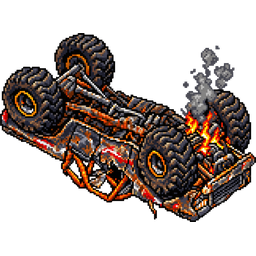
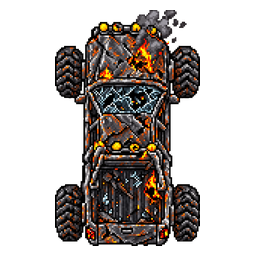
Race art: top-down wreck swapped onto the dead truck's tilted stack; drop the tilted truck sheets

diff --git a/src/client/scenes/RaceScene.ts b/src/client/scenes/RaceScene.ts
@@ -71,8 +71,6 @@ export class RaceScene extends Phaser.Scene {
   sprites: Phaser.GameObjects.Image[] = [];
   sides: Phaser.GameObjects.Image[][] = [];
   shields: Phaser.GameObjects.Image[] = [];
-  /** Burnt wreck shown where a destroyed truck died until it respawns. */
-  wrecks: Phaser.GameObjects.Image[] = [];
   boxes: Phaser.GameObjects.Sprite[] = [];
   missiles = new Map<number, Phaser.GameObjects.Image>();
   mines = new Map<number, Phaser.GameObjects.Image>();
@@ -150,7 +148,6 @@ export class RaceScene extends Phaser.Scene {
       this.sides.push(sides); this.sprites.push(body);
       return this.add.container(t.x, t.y, [...sides, body]).setScale(1, TILT).setDepth(10);
     });
-    this.wrecks = this.textures.exists('wreck') ? this.trucks.map(() => this.add.image(0, 0, 'wreck').setScale(TRUCK_SCALE * 1.2).setDepth(10).setVisible(false)) : [];
     this.shields = this.trucks.map(() => this.add.image(0, 0, 'projectiles', FRAMES.projectiles.shield).setScale(SPRITE_SCALE * 2.2).setAlpha(0.55).setDepth(11).setVisible(false));
     this.boxes = this.track.items.map((p) => this.add.sprite(p.x, p.y, 'itembox', 0).setScale(SPRITE_SCALE).setDepth(4).play('box-pulse'));
     this.marks = this.add.graphics().setDepth(12);
@@ -661,11 +658,10 @@ export class RaceScene extends Phaser.Scene {
       this.shadows[i].setPosition(p.x + (air ? 8 : 3), p.y + (air ? 14 : 5)).setVisible(!t.respawnAtTick).setDepth(t.onBridge ? 14 : 9);
       (this.shadows[i].list[0] as Phaser.GameObjects.Image).setRotation(rotation);
       for (const layer of [...this.sides[i], this.sprites[i]]) layer.setRotation(rotation);
-      this.trucks[i].setPosition(p.x, p.y - lift).setScale(grow, grow * TILT).setVisible(!(t.respawnAtTick && this.wrecks[i]) && !(state.tick < t.invulnerableUntilTick && state.tick % 6 < 3)).setDepth(t.onBridge ? 15 : 10);
-      this.wrecks[i]?.setPosition(p.x, p.y).setVisible(!!t.respawnAtTick).setDepth(t.onBridge ? 15 : 10);
+      this.trucks[i].setPosition(p.x, p.y - lift).setScale(grow, grow * TILT).setVisible(!(state.tick < t.invulnerableUntilTick && state.tick % 6 < 3)).setDepth(t.onBridge ? 15 : 10);
       this.shields[i].setPosition(p.x, p.y).setVisible(!t.respawnAtTick && state.tick < t.shieldUntilTick);
-            // A wrecked truck stays where it died as a charred hulk until it respawns at the last checkpoint.
-      this.sprites[i].setTint(t.respawnAtTick ? 0x3a302a : state.tick < t.stunUntilTick ? 0x8080ff : 0xffffff);
+      // A wrecked truck stays where it died as a burnt hulk, on the same tilted stack, until it respawns at the last checkpoint.
+      this.sprites[i].setTexture(t.respawnAtTick ? 'wreck' : `truck-${TRUCK_COLORS[i]}`).setTint(state.tick < t.stunUntilTick ? 0x8080ff : 0xffffff);
       if (t.lockedUntilTick > state.tick && !t.respawnAtTick) this.drawLock(p.x, p.y);
     });
     const prevMissiles = new Map(this.runner.previous.missiles.map((m) => [m.id, m]));

diff --git a/scripts/build-assets.py b/scripts/build-assets.py
@@ -53,14 +53,18 @@ def bands(mask, axis):
 
 # Trucks: one strict top-down sprite, nose up (assets/raw/trucks-rotate/README.md). The game rotates it to any
 # heading, so turning is continuous instead of snapping between drawn directions.
-top = Image.open(RAW / 'trucks-rotate' / 'cyan-topdown.png').convert('RGBA')
-top.putalpha(top.getchannel('A').point(lambda v: 255 if v >= 160 else 0))  # cut the soft glow
-top = top.crop(top.getbbox())
-scale = TRUCK_CELL * 0.92 / max(top.size)
-top = top.resize((round(top.width * scale), round(top.height * scale)), Image.LANCZOS)
-cyan = Image.new('RGBA', (TRUCK_CELL, TRUCK_CELL), (0, 0, 0, 0))
-cyan.alpha_composite(top, ((TRUCK_CELL - top.width) // 2, (TRUCK_CELL - top.height) // 2))
-cyan.save(OUT / 'truck-cyan.png')
+def topdown(name, out):
+    top = Image.open(RAW / 'trucks-rotate' / name).convert('RGBA')
+    top.putalpha(top.getchannel('A').point(lambda v: 255 if v >= 160 else 0))  # cut the soft glow
+    top = top.crop(top.getbbox())
+    scale = TRUCK_CELL * 0.92 / max(top.size)
+    top = top.resize((round(top.width * scale), round(top.height * scale)), Image.LANCZOS)
+    cell = Image.new('RGBA', (TRUCK_CELL, TRUCK_CELL), (0, 0, 0, 0))
+    cell.alpha_composite(top, ((TRUCK_CELL - top.width) // 2, (TRUCK_CELL - top.height) // 2))
+    cell.save(OUT / out)
+topdown('cyan-topdown.png', 'truck-cyan.png')
+# The burnt wreck has the truck's silhouette, so the game swaps it onto the same rotated, tilted stack.
+topdown('wreck-topdown.png', 'wreck.png')
 import importlib.util
 spec = importlib.util.spec_from_file_location('recolor', RAW / 'trucks' / 'recolor.py'); recolor = importlib.util.module_from_spec(spec); spec.loader.exec_module(recolor)
 for name, hexcolor in recolor.TARGETS.items(): recolor.recolor(OUT / 'truck-cyan.png', OUT / f'truck-{name}.png', hexcolor)
@@ -127,12 +131,6 @@ if tilted.exists():
     for i, c in enumerate([missile, smoke, mine_on, mine_off, drone, shield, None, emp]):
         strip.paste(oil if c is None else fit(c, 128), (i * 128, 0))
     strip.save(OUT / 'projectiles.png')
-# Wreck: a burnt truck on its roof from the elevated camera, shown while a destroyed truck waits to respawn.
-wreck = RAW / 'trucks-tilted' / 'wreck-tilted.png'
-if wreck.exists():
-    raw = np.array(Image.open(wreck).convert('RGBA'))
-    raw[raw[..., 3] < 150] = 0
-    fit(Image.fromarray(raw), TRUCK_CELL).save(OUT / 'wreck.png')
 # Stadium decor (assets/raw/tiles/README.md): drum, tyres, pipe, elbow, tank, cone, hay, sign, floodlight, puddle, clump, grass, crowd x3.
 print('decor sprites:', split_sheet('decor', 'tiles', 128))
 

diff --git a/assets/raw/trucks-rotate/README.md b/assets/raw/trucks-rotate/README.md
@@ -4,4 +4,6 @@
 |---|---|---|
 | `cyan-topdown.png` | The one truck image: strict top-down, nose up. `scripts/build-assets.py` cuts the glow (alpha < 160), crops, fits a 256 px cell as `public/assets/truck-cyan.png` and palette-swaps the other four colours. `RaceScene` rotates it, squashes it by `TILT` and stacks darker copies for the sides. | gpt-image-2, quality high, real alpha with a soft cyan glow. |
 
-Replaces the 16-direction tilted sheets in `../trucks-tilted/` (kept for the wreck).
+| `wreck-topdown.png` | Burnt truck with the same silhouette, made with `--ref cyan-topdown.png`; cut the same way to `public/assets/wreck.png`. `RaceScene` swaps it onto the dead truck's stack until it respawns. | gpt-image-2, quality high; the faint smoke is cut with the glow. |
+
+Replaces the 16-direction tilted sheets that lived in `../trucks-tilted/` (removed; see git history).
